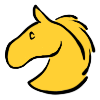
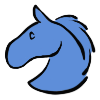
Added wip final ticket code and changed color of favcon

diff --git a/src/web/static/js/raceSelection.js b/src/web/static/js/raceSelection.js
@@ -237,55 +237,89 @@ document.addEventListener("DOMContentLoaded", async function loadRaces() {
 });
 
 // This function generates the ticket for displaying/printing, and can deal with up to 10 total
-//* The design of this ticket is outdated, it will be updated later
+// Here is a link to the html in the planning repo if it is needed: https://github.com/Spring2025-SDEV265-00D/raffle-planning/tree/c69c6daf65feb04f3706a78d14e0d4576963ffeb/planning/final%20ticket%20html
+//! The only things that need to be done are to get the variable names. I haven't tested how it looks, but the prev ver is commented out bellow if it doesn't work
 async function generateTicket(data) {
   let html = '<div class="ticket">';
-  html +=
-    '<h2 align="center" id="ticketTitle">' +
-    `${data.order[0].event_name}` +
-    "</h2>";
-  html +=
-    '<img align="left" class="ticketImg" id="img1" src="../static/assets/images/horse_scroll_final.png" alt=":(">'; // alt isnt descriptive because it would
-  html +=
-    '<img align="right" class="ticketImg" id="img2" src="../static/assets/images/horse_scroll_final.png" alt="):">'; // mess up the format of everything
-  html += "<div>";
-  html +=
-    "<li>Event No.</li><li>Race No.</li><li>Horse No.</li><li>Ref No</li></div>";
-  html += '<div class="line">';
-
-  // add all tickets into it
+  html += '<h2 align="center" id="ticketTitle">${data.order[0].event_name}</h2>';
+  html += '<p id="dateTop">12/12/2025 - 12/12/2025</p>'; //!------ this is the date of the event, it needs to be taken from the data
+  html += '<img align="left" class="ticketImg" id="img1" src="images/horse_scroll_final.png" alt=":(">'
+  html += '<img align="right" class="ticketImg" id="img2" src="images/horse_scroll_final.png" alt="):">';
+  html += '<div>' + '<div class="grid">';
+  html += '<div>Ref. #</div><div>Race. #</div><div>Horse. #</div>';
+  // add all avalible tickets
   //* there is a limit of 10 tickets that can be displayed
   for (let i = 0; i < data.order.length && i < 10; i++) {
-    html += `<div><li>1</li><li>${data.order[i].race_number}</li><li>${data.order[i].horse_number}</li><li>${data.order[i].ticket_id}</li></div>`;
+    html += '<div>${data.order[i].ticket_id}</div><div>${data.order[i].race_number}</div><div>${data.order[i].horse_number}</div>';
   }
+  html += '</div>';
+  html += '<div class="botGrid"><div>Order ID: 12345</div><div>Date Issued: 12/12/2025</div></div>'; //!----- needs the date issued and order ID from the data
+  html += '<div><p class="textBottom">This event is sanctioned by 2334556</p></div></div>'
 
-  html += "</div>";
-  html +=
-    '<div><p class="textBottom">This event is sanctioned by 2334556</p></div>';
-  html += "</div>";
-
-  // the second ticket is always there, but can only be seen when printing
-  // the only diference is just the id in the first div
-  html += '<div class="ticket" id="ticket2">';
-  html +=
-    '<h2 align="center" id="ticketTitle">' +
-    `${data.order[0].event_name}` +
-    "</h2>";
-  html +=
-    '<img align="left" class="ticketImg" id="img1" src="../static/assets/images/horse_scroll_final.png" alt=":(">';
-  html +=
-    '<img align="right" class="ticketImg" id="img2" src="../static/assets/images/horse_scroll_final.png" alt="):">';
-  html += "<div>";
-  html +=
-    "<li>Event No.</li><li>Race No.</li><li>Horse No.</li><li>Ref No</li></div>";
-  html += '<div class="line">';
+  //*---------    Second ticket    ---------*//
+  html += '<div class="ticket" id="ticket2">'; // the id hides this ticket until the print page, haven't tested if this ver messes with it
+  html += '<h2 align="center" id="ticketTitle">${data.order[0].event_name}</h2>';
+  html += '<p id="dateTop">12/12/2025 - 12/12/2025</p>'; //!------ this is the date of the event, it needs to be taken from the data
+  html += '<img align="left" class="ticketImg" id="img1" src="images/horse_scroll_final.png" alt=":(">'
+  html += '<img align="right" class="ticketImg" id="img2" src="images/horse_scroll_final.png" alt="):">';
+  html += '<div>' + '<div class="grid">';
+  html += '<div>Ref. #</div><div>Race. #</div><div>Horse. #</div>';
+  // add all avalible tickets
+  //* there is a limit of 10 tickets that can be displayed
   for (let i = 0; i < data.order.length && i < 10; i++) {
-    html += `<div><li>1</li><li>${data.order[i].race_number}</li><li>${data.order[i].horse_number}</li><li>${data.order[i].ticket_id}</li></div>`;
+    html += '<div>${data.order[i].ticket_id}</div><div>${data.order[i].race_number}</div><div>${data.order[i].horse_number}</div>';
   }
-  html += "</div>";
-  html +=
-    '<div><p class="textBottom">This event is sanctioned by 2334556</p></div>';
-  html += "</div>";
+  html += '</div>';
+  html += '<div class="botGrid"><div>Order ID: 12345</div><div>Date Issued: 12/12/2025</div></div>'; //!----- needs the date issued and order ID from the data
+  html += '<div><p class="textBottom">This event is sanctioned by 2334556</p></div></div>'
+
+
+  // html +=
+  //   '<h2 align="center" id="ticketTitle">' +
+  //   `${data.order[0].event_name}` +
+  //   "</h2>";
+  // html +=
+  //   '<img align="left" class="ticketImg" id="img1" src="../static/assets/images/horse_scroll_final.png" alt=":(">'; // alt isnt descriptive because it would
+  // html +=
+  //   '<img align="right" class="ticketImg" id="img2" src="../static/assets/images/horse_scroll_final.png" alt="):">'; // mess up the format of everything
+  // html += "<div>";
+  // html +=
+  //   "<li>Event No.</li><li>Race No.</li><li>Horse No.</li><li>Ref No</li></div>";
+  // html += '<div class="line">';
+
+  // // add all tickets into it
+  // //* there is a limit of 10 tickets that can be displayed
+  // for (let i = 0; i < data.order.length && i < 10; i++) {
+  //   html += `<div><li>1</li><li>${data.order[i].race_number}</li><li>${data.order[i].horse_number}</li><li>${data.order[i].ticket_id}</li></div>`;
+  // }
+
+  // html += "</div>";
+  // html +=
+  //   '<div><p class="textBottom">This event is sanctioned by 2334556</p></div>';
+  // html += "</div>";
+
+  // // the second ticket is always there, but can only be seen when printing
+  // // the only diference is just the id in the first div
+  // html += '<div class="ticket" id="ticket2">';
+  // html +=
+  //   '<h2 align="center" id="ticketTitle">' +
+  //   `${data.order[0].event_name}` +
+  //   "</h2>";
+  // html +=
+  //   '<img align="left" class="ticketImg" id="img1" src="../static/assets/images/horse_scroll_final.png" alt=":(">';
+  // html +=
+  //   '<img align="right" class="ticketImg" id="img2" src="../static/assets/images/horse_scroll_final.png" alt="):">';
+  // html += "<div>";
+  // html +=
+  //   "<li>Event No.</li><li>Race No.</li><li>Horse No.</li><li>Ref No</li></div>";
+  // html += '<div class="line">';
+  // for (let i = 0; i < data.order.length && i < 10; i++) {
+  //   html += `<div><li>1</li><li>${data.order[i].race_number}</li><li>${data.order[i].horse_number}</li><li>${data.order[i].ticket_id}</li></div>`;
+  // }
+  // html += "</div>";
+  // html +=
+  //   '<div><p class="textBottom">This event is sanctioned by 2334556</p></div>';
+  // html += "</div>";
 
   return html;
 }

diff --git a/src/web/static/css/styles.css b/src/web/static/css/styles.css
@@ -20,103 +20,129 @@ section {
 
 /* Modal styling */
 .modal {
-display: none;
-position: fixed;
-z-index: 1;
-left: 0;
-top: 0;
-width: 100%;
-height: 100%;
-background-color: rgba(0, 0, 0, 0.4);
+  display: none;
+  position: fixed;
+  z-index: 1;
+  left: 0;
+  top: 0;
+  width: 100%;
+  height: 100%;
+  background-color: rgba(0, 0, 0, 0.4);
 }
 
 .modal-content {
-background-color: white;
-margin: 10% auto;
-padding: 20px;
-border: 1px solid #888;
-width: 80%;
-max-width: 900px;
+  background-color: white;
+  margin: 10% auto;
+  padding: 20px;
+  border: 1px solid #888;
+  width: 80%;
+  max-width: 900px;
 }
 
 /*Ticket styling*/
 .ticketTitle {
-text-align: center;
-font-size: 40px;
-margin-top: 10px;
+  text-align: center;
+  font-size: 40px;
+  margin-top: 10px;
 }
 
 .ticketImg {
-width: 100px;
-height: 400px;
+  position: relative;
+  top: -50px;
+  width: 120px;
+  height: 450px;
 }
 
 #img2 {
-transform: scaleX(-1);
+  transform: scaleX(-1);
 }
 
 li {
-display: inline;
-padding-left: 10px;
-padding-right: 10px;
+  display: inline;
+  padding-left: 20px;
+  padding-right: 20px;
+}
+
+#dateTop {
+  font-size: 15px;
 }
 
 .ticket {
-text-align: center;
-font-size: 20px;
-width: 816px;
-height: 528px;
+  text-align: center;
+  font-size: 20px;
+  width: 816px;
+  height: 528px;
 }
 
 .line * {
-padding-left: 42px;
-padding-right: 42px;
+  position: relative;
+  left: -5px;
+  padding-left: 42px;
+  padding-right: 42px;
+}
+
+.grid {
+  position: relative;
+  left: 110px;
+  display: grid;
+  grid-template-columns: 20% 20% 20%;
+  column-gap: 10px;
+  text-align: center;
+}
+
+.botGrid {
+  position: relative;
+  left: 30px;
+  top: 10px;
+  display: grid;
+  grid-template-columns: 40% 40%;
+  column-gap: 20px;
 }
 
 .textBottom {
-font-size: 15px;
-text-align: center;
-padding-top: 25px;
-position: absolute;
-top: 500px;
-left: 300px;
+  font-size: 15px;
+  text-align: center;
+  padding-top: 25px;
+  position: absolute;
+  top: 500px;
+  left: 300px;
 }
 
 #ticket2 {
-visibility: hidden;
-position: absolute;
+  visibility: hidden;
+  position: absolute;
 }
 
 /*Printing styling*/
 @media print {
-body * {
-  visibility: hidden;
-}
-.ticket * {
-  visibility: visible;
-}
-.ticket {
-  position: absolute;
-  border: none;
-  top: -30px;
-  left: -50px;
-}
-.textBottom {
-  top: 370px;
-  left: 287px;
-}
-#ticket2 {
-  top: 465px;
-}
-#img1 {
-  position: absolute;
-  left: 50px;
-}
-#img2 {
-  position: absolute;
-  right: 50px;
-}
-.modal-buttons {
-  display: none;
-}
+  body * {
+    visibility: hidden;
+  }
+  .ticket * {
+    visibility: visible;
+  }
+  .ticket {
+    position: absolute;
+    border: none;
+    top: -30px;
+    left: -50px;
+  }
+  .textBottom {
+    top: 370px;
+    left: 287px;
+  }
+  #ticket2 {
+    top: 465px;
+  }
+  #img1 {
+    position: absolute;
+    left: 50px;
+  }
+  #img2 {
+    position: absolute;
+    right: 50px;
+  }
+  .modal-buttons {
+    display: none;
+  }
 }
